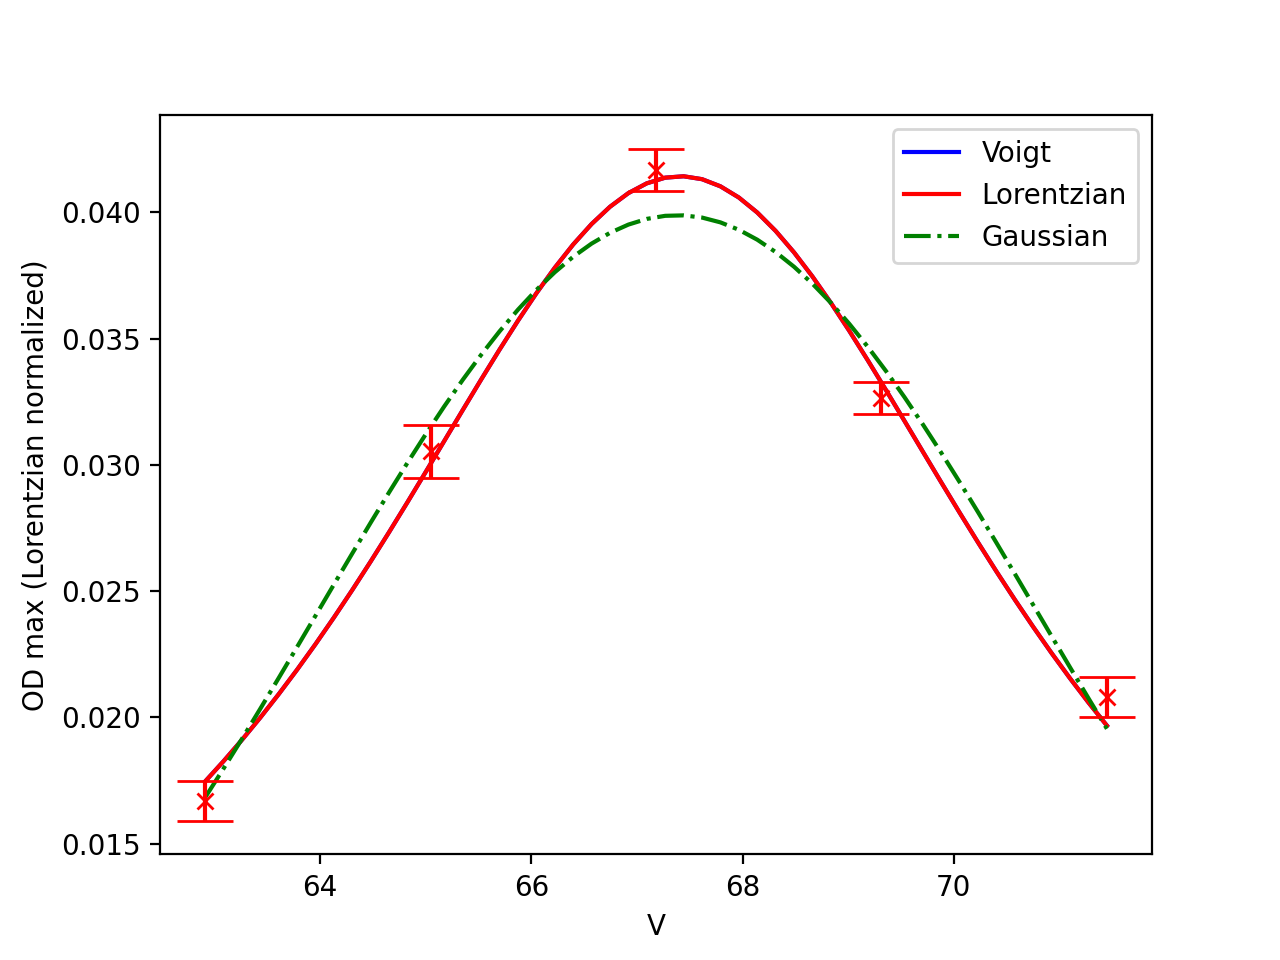
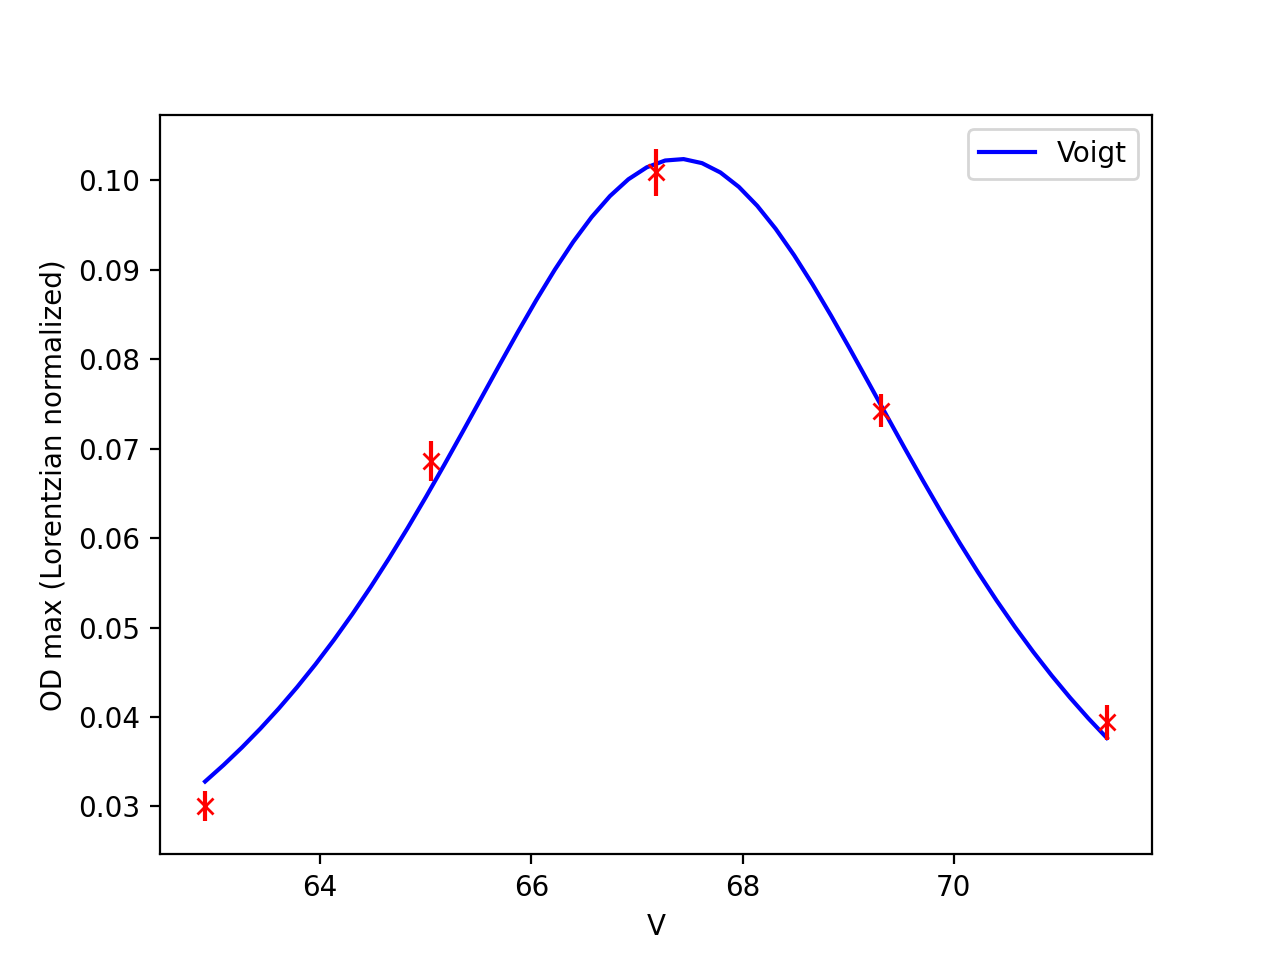
last commit after finishing project

diff --git a/datarun.py b/datarun.py
@@ -233,7 +233,7 @@ class DataRun:
     def atom_number(self):
         x = np.arange(-10*self.popt_x[2], 10*self.popt_x[2], self.DISTANCE_SCALE/20)
 
-        abs_CS = 3*(766.5e-9)**2/(2*np.pi)
+        abs_CS = (766.5e-9)**2/(2*np.pi)
         #of magnitude smaller
         return np.trapz(
             self.gaussian_fit(x, *self.popt_x[:3], 0),
@@ -241,7 +241,7 @@ class DataRun:
         )*self.DISTANCE_SCALE/abs_CS
 
     def atom_number_px_sum(self):
-        abs_CS=3*(766.5e-9)**2/(2*np.pi)
+        abs_CS=(766.5e-9)**2/(2*np.pi)
         return np.sum(self.blob)*self.DISTANCE_SCALE**2/abs_CS 
         
     def plot_blob(self):

diff --git a/datarun_retired.py b/datarun_retired.py
@@ -213,7 +213,7 @@ class DataRun:
         return
 
     def gaussian_fit(self, x, A, mu, sigma, B):
-        return A*np.exp(-(x-mu)**2/(2*sigma**2))
+        return A*np.exp(-(x-mu)**2/(2*sigma**2))+B
     
     def fit(self):
         #compute marginals and fit to a gaussian
